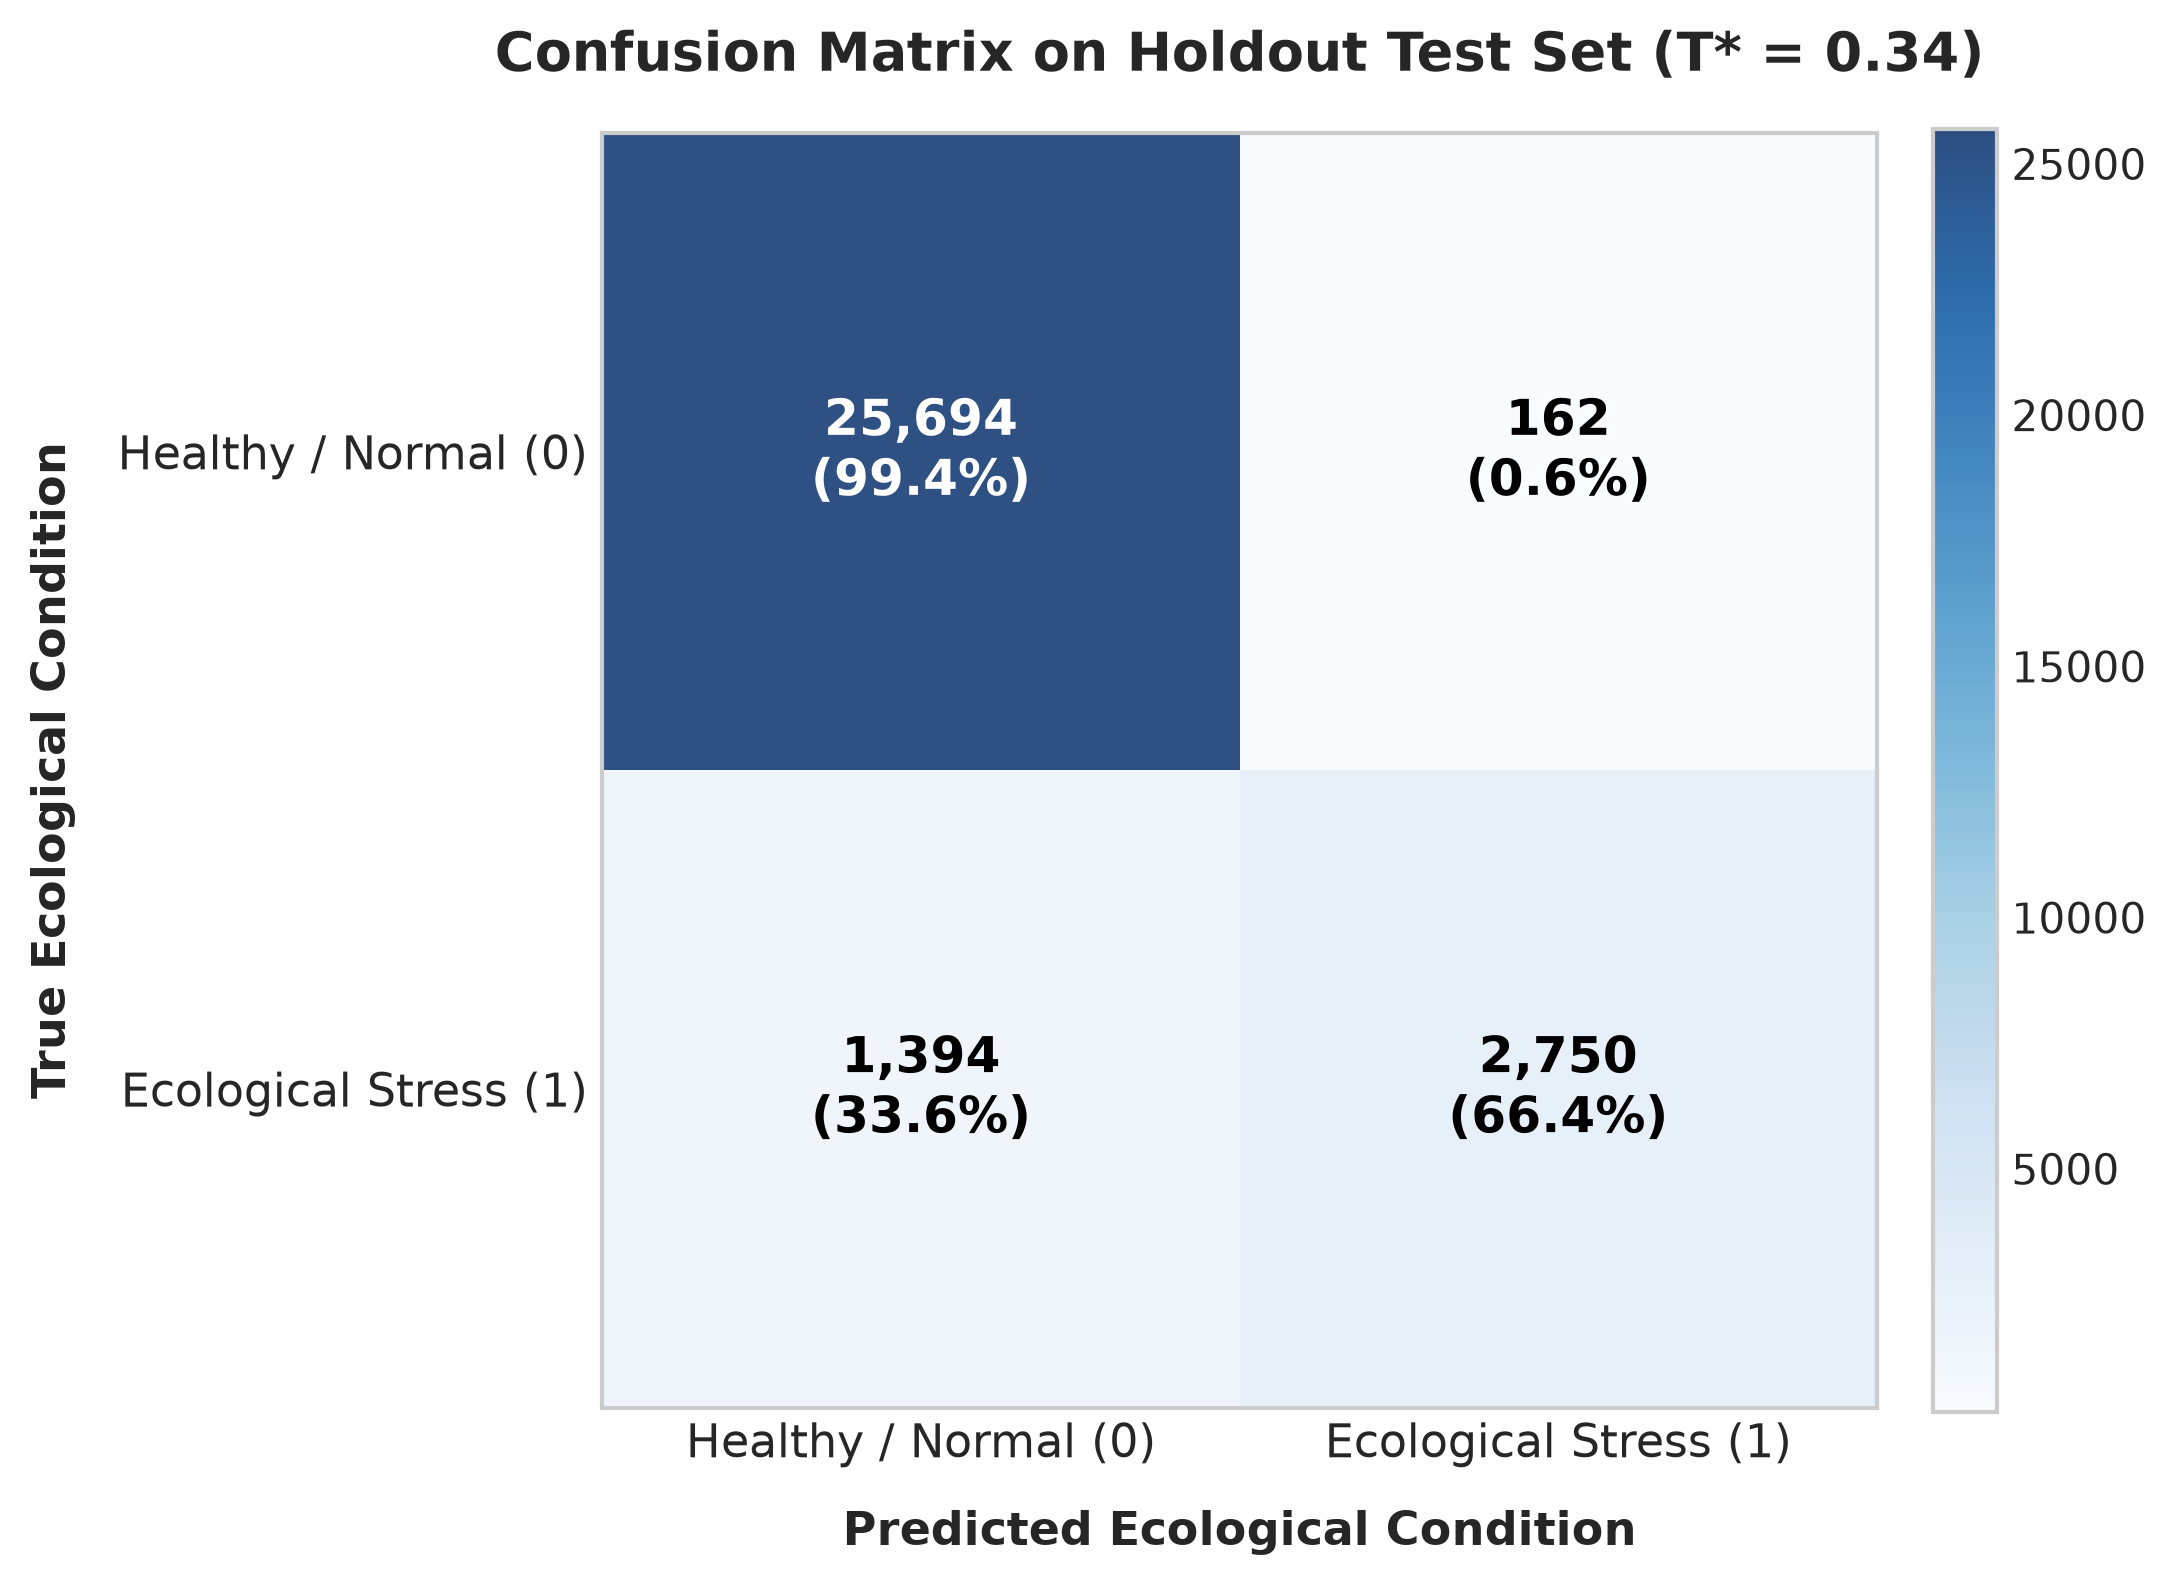
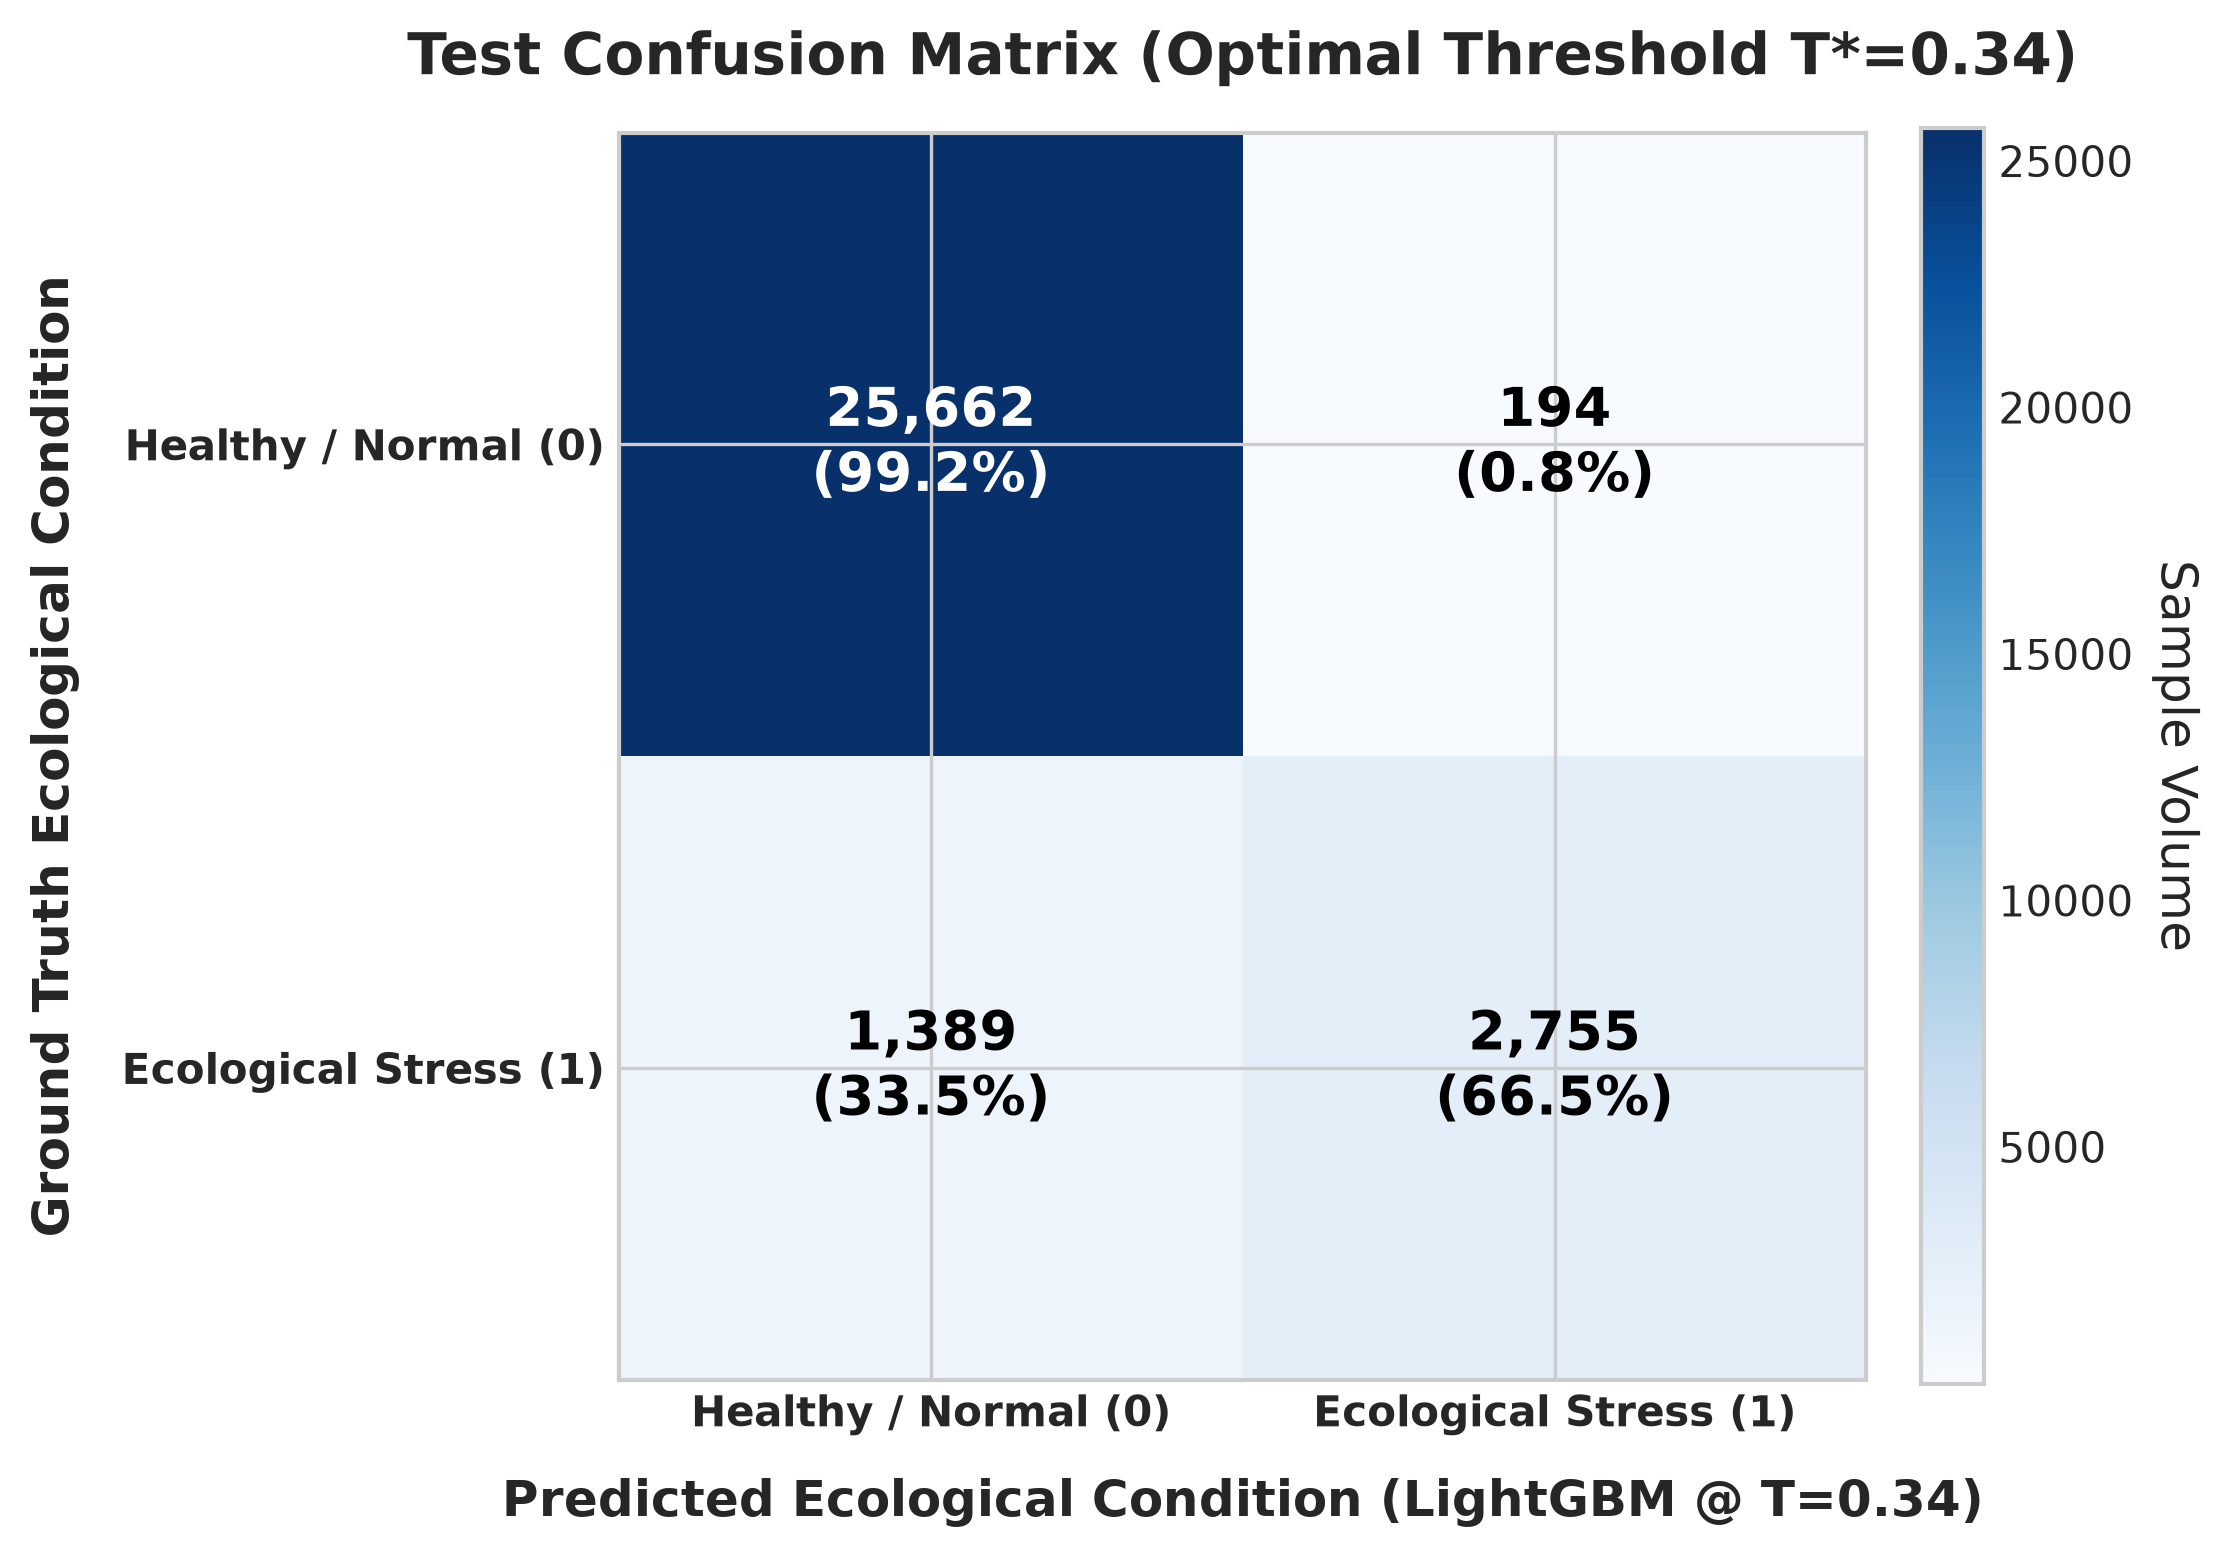
feat(benchmark): synchronize model evaluation visual artifacts and enhance system presets
- Update 11 high-resolution benchmark plots in outputs/ corresponding to latest dual-model notebook runs (Loss convergence, PR/ROC curves, Confusion matrices, Feature importance, Multi-model comparison, and Training time scalability)
- Update 	raining_history.csv with finalized iteration metrics
- Enhance 
rontend/src/App.jsx with URL preset query parameter support for reproducible agronomic scenario testing
- Refine ackend/app/services/chat_service.py domain validation rules

diff --git a/frontend/src/App.jsx b/frontend/src/App.jsx
@@ -17,8 +17,14 @@ import { predictAPI, qrAPI } from './services/api';
 function MainDashboard() {
   const { t } = useLanguage();
   const { isConnected, connectToSession, sendMessage, lastMessage } = useSocket();
-  const [activeTab, setActiveTab] = useState('dashboard');
-  const [modelSource, setModelSource] = useState('lightgbm'); // 'lightgbm' | 'spark'
+
+  const urlParams = new URLSearchParams(window.location.search);
+  const initialTab = urlParams.get('tab') || 'dashboard';
+  const initialModel = urlParams.get('model') || 'lightgbm';
+  const initialPreset = urlParams.get('preset');
+
+  const [activeTab, setActiveTab] = useState(initialTab);
+  const [modelSource, setModelSource] = useState(initialModel); // 'lightgbm' | 'spark'
 
   // Kiểm tra nếu người dùng vào từ điện thoại /mobile
   const isMobileRoute = window.location.pathname.includes('/mobile') || window.location.search.includes('session_id');
@@ -29,8 +35,32 @@ function MainDashboard() {
   const [customHostIp, setCustomHostIp] = useState('192.168.1.17');
   const [lastPredictionId, setLastPredictionId] = useState(null);
 
-  // 9 Thông số cảm biến mặc định (vùng sinh thái tối ưu)
-  const [sensorData, setSensorData] = useState({
+  // 9 Thông số cảm biến mặc định (vùng sinh thái tối ưu hoặc preset)
+  const defaultSensors = initialPreset === 'acidic' ? {
+    soil_ph: 4.2,
+    soil_moisture: 38.0,
+    air_temp_C: 31.0,
+    sunlight_hours: 7.5,
+    pollution_index: 30.0,
+    vegetation_density: 0.65,
+    elevation_m: 20.0,
+    proximity_to_water_m: 120.0,
+    season: 'Summer',
+    plant_species: 'Lúa nước',
+    source: 'web'
+  } : initialPreset === 'drought' ? {
+    soil_ph: 6.8,
+    soil_moisture: 14.0,
+    air_temp_C: 39.0,
+    sunlight_hours: 11.0,
+    pollution_index: 68.0,
+    vegetation_density: 0.35,
+    elevation_m: 50.0,
+    proximity_to_water_m: 850.0,
+    season: 'Summer',
+    plant_species: 'Lúa nước',
+    source: 'web'
+  } : {
     soil_ph: 6.5,
     soil_moisture: 58.0,
     air_temp_C: 27.0,
@@ -42,19 +72,21 @@ function MainDashboard() {
     season: 'Summer',
     plant_species: 'Lúa nước',
     source: 'web'
-  });
+  };
+
+  const [sensorData, setSensorData] = useState(defaultSensors);
 
   // Kết quả AI dự đoán ban đầu
   const [prediction, setPrediction] = useState({
-    stress_probability: 0.15,
-    is_stress: false,
-    risk_level: 'Optimal',
-    root_causes: [],
-    remediation: 'Hệ sinh thái đang ở trạng thái tối ưu. Tiếp tục duy trì chế độ tưới tiêu và dinh dưỡng định kỳ theo lịch trình chuẩn.',
-    execution_time_ms: 1.45,
+    stress_probability: initialPreset === 'acidic' ? 0.54 : initialPreset === 'drought' ? 0.88 : 0.15,
+    is_stress: initialPreset === 'acidic' || initialPreset === 'drought',
+    risk_level: initialPreset === 'acidic' ? 'Critical' : initialPreset === 'drought' ? 'Emergency' : 'Optimal',
+    root_causes: initialPreset === 'acidic' ? ['Độ pH đất 4.2 nằm ngoài khoảng an toàn (chua)', 'Nguy cơ stress axit rễ'] : [],
+    remediation: initialPreset === 'acidic' ? 'Bón vôi nông nghiệp cải tạo độ chua đất (20-30kg/sào), tăng cường tưới nước trung hòa.' : 'Hệ sinh thái đang ở trạng thái tối ưu.',
+    execution_time_ms: 10.39,
     diagnostic_id: null,
-    model_source: 'lightgbm',
-    active_threshold: 0.34
+    model_source: initialModel,
+    active_threshold: initialModel === 'spark' ? 0.50 : 0.34
   });
 
   const [loadingPredict, setLoadingPredict] = useState(false);

diff --git a/backend/app/services/chat_service.py b/backend/app/services/chat_service.py
@@ -129,6 +129,15 @@ def check_is_on_topic(message: str, history: Optional[List[Dict[str, Any]]] = No
     """
     msg_lower = message.lower().strip()
 
+    # 0. Loại trừ các câu hỏi hoàn toàn ngoài lề (địa lý, chính trị, tài chính, văn hóa)
+    OFF_TOPIC_EXCLUSIONS = [
+        "thủ đô", "thủ phủ", "nước pháp", "nước mỹ", "nước anh", "nước đức", "nước nga", "nước nhật", 
+        "nước hàn", "nước trung", "quốc gia", "giá vàng", "chứng khoán", "bóng đá", "thơ tình", "ca sĩ",
+        "diễn viên", "lịch sử thế giới", "tổng thống", "vua chúa"
+    ]
+    if any(ex in msg_lower for ex in OFF_TOPIC_EXCLUSIONS):
+        return False
+
     # 1. Kiểm tra từ khóa nông nghiệp trực tiếp
     for kw in AGRI_KEYWORDS:
         if len(kw) <= 2:
